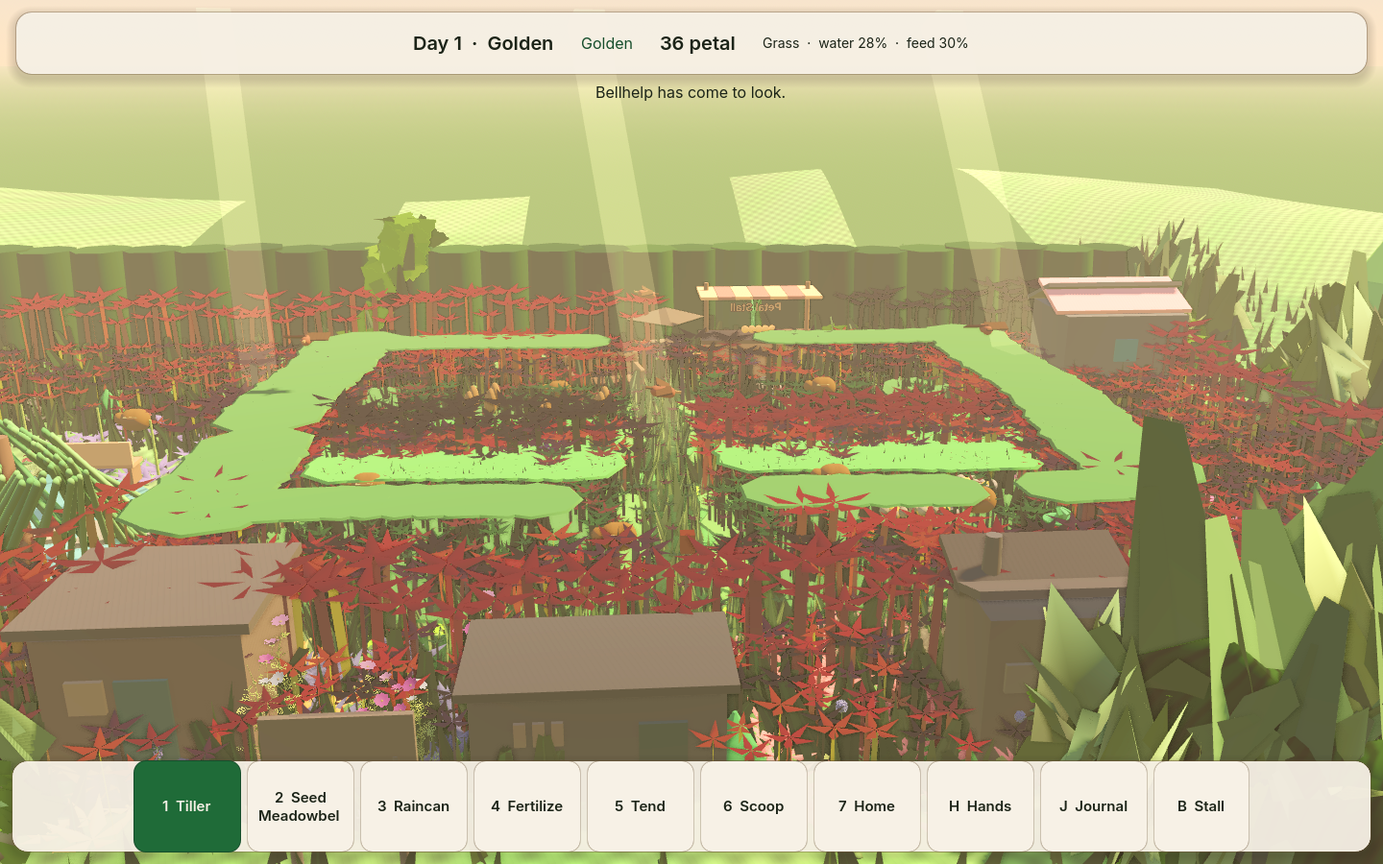
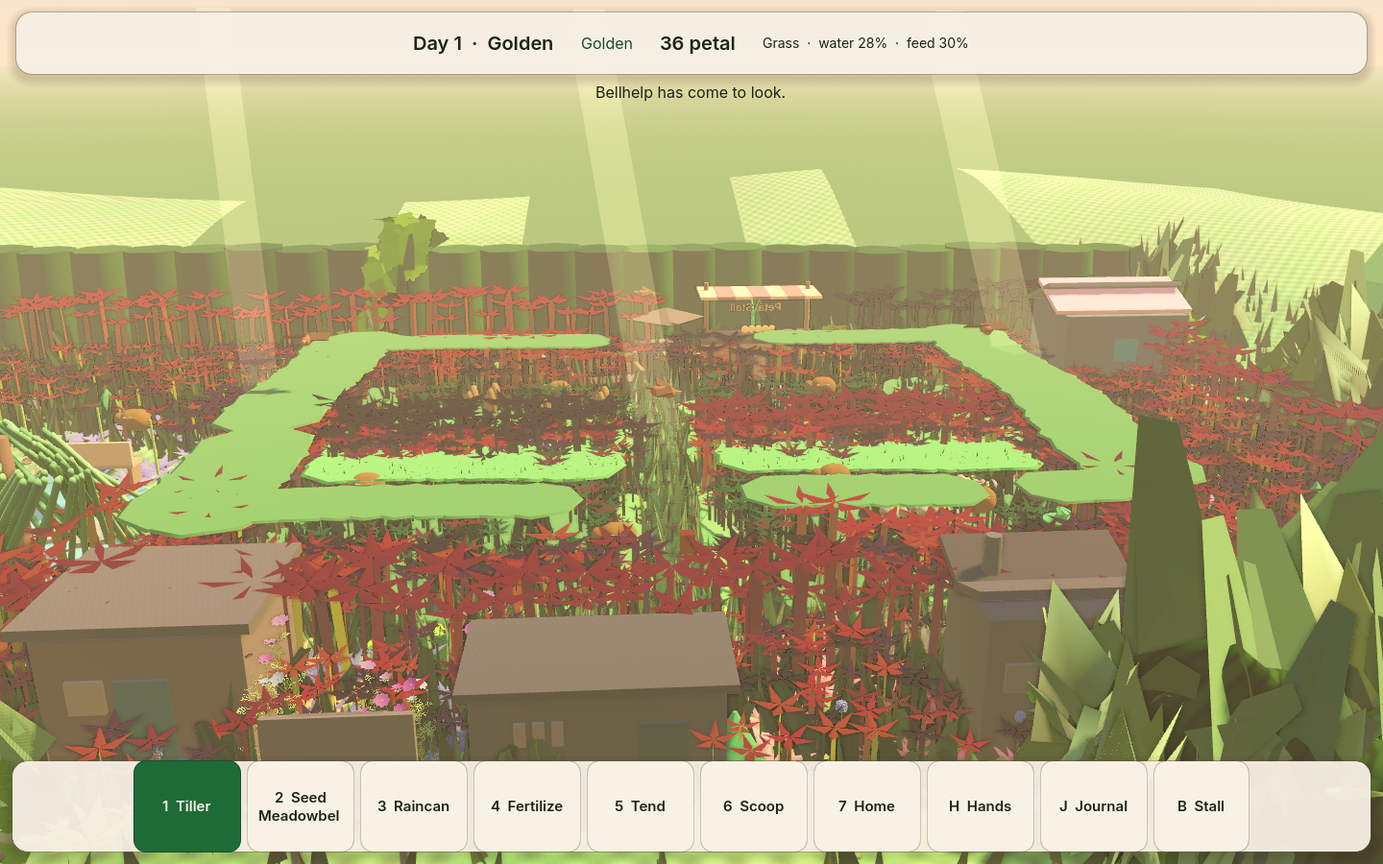
The eight leaves under each crop become short blades.
Hailo did not vote (health 200, POST returned 502 twice). The bramble fruit stays.

diff --git a/docs/VISUAL_GAP.md b/docs/VISUAL_GAP.md
@@ -2,7 +2,7 @@
 
 Compared on 2026-09-23. The scene `tools/run.sh` launches is Hedge Hollow. Shots: `docs/screenshots/wave1_overview.png`, `wave1_jelly.png`, `wave1_lumen.png`. Targets: `docs/reference/petalwild_target_garden_01.png` and `petalwild_target_garden_02.png`.
 
-The north backdrop trees are shorter than the hedge. Crest leaf cards are 0.4 of their old size, and the far wall keeps one 2.5 m tuft in four. A row of dark shrubs stands just behind that wall. The east end is taller so its lip meets the hedge line. Light-green pixels in the upper opening band (screen y 265–320, x 40–1400) fell from 53% to 24%, and in the lower band (y 290–360, x 80–1200) from 36% to 13%. On the east lip (y 252–272, x 40–300) mean luminance fell from 200 to 162. The hill (y 200–245) did not change. The stall still sits in front of the middle of the wall. The bright blue band in that opening was the awning cloth, not a hole in the hedge. That stripe is darker now and reads about (171, 171, 173). A sky-blue detector on the overview (blue above 200, ahead of red by 20 and of green by 10) is 0. The shrub row behind the wall was lifting to pale green under the sun. The same light-green check (green ahead of red by 15 and of blue by 20, green above 140) now covers 1.2% of the upper band, down from 3.5% on the previous shot. The crest leaf cards and the far trees were the pale pixels in the side openings. The upper hill (screen y 200–230) stayed at about (213, 224, 148). The ground sky below the horizon is green, so a hole in the hill reads as olive rather than pale sky. Bellhelp’s close-up shows five pointed lobes, five gap tips past them, a wide short rank inside that ring, a darker band, and a wider flared whorl. The dark throat stays. The wide skirt of spheres is gone. The bench and planter use a dark multiply on the prop texture, and bright plant-atlas texels are capped. The three lantern glasses are amber instead of pure white. The pink disk by the south-west rail, the untilled grass-plot tops, the meadowbell petals, the mauve bed, the resident hands, the light flagstones, the path dirt, and the loose stones are darkened so they stay under the sun. Eight bees drift over the beds. Four birds cross the garden by day and perch at dusk and in the rain. A planted meadowbell is three bells on a leaf pad, and every crop sits in a ring of eight leaves. Pure white on this overview is 0. On the previous shot the upper-band light-green check was 1.17% and the hill mean was (212.9, 224.4, 147.6). The hedge tea house stands in the lower left of the home shot. On that shot the same check was 1.30% (969 pixels) and the hill mean was (212.0, 223.6, 146.4). The research hut stands in the lower middle of that shot, where the check was 1.17% (874 pixels) and the hill mean was (212.0, 223.6, 146.4). The media foundry stands in the lower middle of that shot, where the check was 1.15% (862 pixels) and the hill mean was (212.0, 223.6, 146.4). The town hall board now stands in the south gate. On the town-hall shot the check was 1.29% (968 pixels) and the hill mean was (212.0, 223.6, 146.4). On the six-bloom shot the check was 1.54% (1155 pixels) and the hill mean was (212.0, 223.7, 146.5). Empty untilled beds now carry nine dark leaf discs and eight short flowers, and a tilled or planted bed clears them. On the leaf-cover shot the check was 1.60% (1197 pixels) and the hill mean was (212.1, 223.8, 146.5). Neighboring empty cells now share an overlapping dark lid, so the brown seam inside a plot closes. On the joined-lid shot the check was 1.61% (1208 pixels) and the hill mean was (212.1, 223.8, 146.5). A planted cell now keeps that dark lid, so the crop sits in the meadow instead of an inset square. On the planted-lid shot the check was 1.54% (1149 pixels) and the hill mean was (212.1, 223.7, 146.5). The north and south plots now meet across the lawn, and the north-south path stays open. On the bridge shot the check was 1.57% (1176 pixels) and the hill mean was (212.2, 223.8, 146.6). Flowers now sit on both lips of the north-south path, and the path center stays open. On the path-lip shot the check was 1.61% (1204 pixels) and the hill mean was (212.1, 223.8, 146.5). Flowers now spill past the outer edges of the four beds, and the path-center pixels are unchanged. On the bed-edge shot the check was 1.45% (1083 pixels) and the hill mean was (212.2, 223.9, 146.6). The north-south track is narrower, its shoulders are meadow, and the center stays stone. On the narrow-track shot the check was 1.46% (1091 pixels) and the hill mean was (212.2, 223.9, 146.6). The south and north tracks are narrower too, with flowers on their lips. On the track-lip shot the check was 1.45% (1083 pixels) and the hill mean was (212.2, 223.9, 146.6). The wooden frames and the inner hedge around the four beds are gone. The parish hedge stays. On the open-bed shot the check was 1.26% (940 pixels) and the hill mean was (212.0, 223.6, 146.4). On the stepping-stone shot the check was 1.52% (1136 pixels) and the hill mean was (212.0, 223.7, 146.5). On the smaller-stone shot the check was 1.16% (870 pixels) and the hill mean was (212.0, 223.6, 146.4). On the open-stone shot the check was 1.28% (955 pixels) and the hill mean was (212.2, 223.9, 146.6). On the flower-track shot the check was 1.53% (1148 pixels) and the hill mean was (212.2, 223.9, 146.6). On the track-grass shot the check was 1.21% (903 pixels) and the hill mean was (212.0, 223.6, 146.4). On the worn-walk shot the ledger wrote 1.56% (1166 pixels) and the hill mean (212.1, 223.7, 146.5). The same light-green check on that file is 3.72% (2780 of 74800). Empty meadow cells carry a fuller clump: larger leaves, larger blooms, and four more flowers in the gaps. Tilling one empty cell clears twenty-one instances. On that shot the check was 3.70% (2766 of 74800) and the hill mean was (212.1, 223.7, 146.5). A planted cell now keeps eight flowers on its rim, and the stem stays clear. Opening that cell into meadow adds the other thirteen. The worn centers stay open. On that shot the check was 3.55% (2657 of 74800) and the hill mean was (212.0, 223.7, 146.4). On that shot the check was 3.80% (2841 of 74800) and the hill mean was (212.1, 223.7, 146.5). On that shot the check was 3.82% (2855 of 74800) and the hill mean was (212.1, 223.8, 146.5). The north apron above the beds carries a tighter bloom grid. The worn walks, the stall spur, the rooms, and the pond stay open. On that shot the check was 3.80% (2844). Against the file before it the band gained 82 pixels and lost 93. The hill mean was (212.1, 223.8, 146.5). 6.62% of the pixels below the horizon changed, and 0.49% above y 320. The apron band (screen y 350–400) changed 17%. The bridge strips between the north and south beds carry a tighter bloom grid. The worn center between them stays open. On that shot the check was 3.78% (2831). Against the file before it the band gained 41 pixels and lost 54. The hill mean was (212.2, 223.8, 146.6). 4.59% of the pixels below the horizon changed, and 0.27% above y 320. The bridge band (screen y 486–525, x 343–1037) changed 6%. The lawn just inside the west hedge now carries a tighter bloom grid. The hedge wall stays. On this shot the check is 3.81% (2849). Against that file the band gained 66 pixels and lost 48. The hill mean is (212.1, 223.8, 146.5). 4.73% of the pixels below the horizon changed, and 0.32% above y 320. The west band (screen y 450–700, x 1260–1440) changed 9%, and rose pixels there went from 2147 to 2749. After dusk the three path lanterns brighten, and they glow while the mist is up. On the night shot the pond lamp moved from (199, 157, 108) to (254, 197, 114). The afternoon shot stays as it is. The north apron continues east of the beds. The worn walks stay open. On this shot the check is 3.75% (2802 of 74800). Against that file the band gained 163 pixels and lost 210. The hill mean is (212.2, 223.9, 146.6). 28.18% of the pixels below the horizon changed, and 1.78% above y 320. The east apron band (screen y 370–450, x 40–560) changed 43.6%, and rose pixels there went from 27759 to 28986. The south lawn in front of the rooms carries a tighter bloom grid. The worn walks and the south hedge stay open. On this shot the check is 3.65% (2733 of 74800). Against that file the band gained 165 pixels and lost 234. The hill mean is (212.2, 223.9, 146.6). 29.84% of the pixels below the horizon changed, and 1.77% above y 320. The south band (screen y 740–860, x 100–900) changed 21.6%, and rose pixels there went from 8225 to 11752. Pure white is 0. The sky-blue detector is 0. The stall lamp brightens while the stall is open and dims after it shuts. The afternoon home shot stays as it is. On the stall close-up the frame mean moved from (135.4, 118.1, 81.9) to (144.7, 121.5, 86.0). After dusk the tea house window, the hut window, and the shed's south pane glow. On the night shot those panes read (254, 196, 111), (251, 190, 104), and (245, 201, 143). By day the tea and hut windows stay dark. The shed's south pane is in the afternoon shot. The stall awning warms while the stall is open and cools after it shuts. On the afternoon shot a stripe moved from (163, 163, 159) to (254, 193, 154) at screen (819, 306). The night shot stays as it is. On this shot the check is 3.77% (2823 of 74800). Against that file the band gained and lost within the sway of the hedge. The hill mean is (212.2, 223.8, 146.6). Pure white is 0. The sky-blue detector is 0. One bed-flower rank was tan and read as soil. It is coral now. A petal at screen (926, 678) moved from (104, 115, 72) to (232, 138, 111). The night shot stays. On this shot the check is 3.74% (2796 of 74800). The hill mean is (212.2, 223.9, 146.6). Pure white is 0. The sky-blue detector is 0. The eight bees are large enough to read over the beds. A flower under one moved from (255, 219, 194) to (139, 110, 67) at screen (1020, 531). The night shot shows that bee. On this shot the check is 3.75% (2807 of 74800). The hill mean is (212.2, 223.9, 146.6). Pure white is 0. The sky-blue detector is 0. Empty-cell flowers and the planted rims sit off the cell rows. A nudge that would land on a worn walk stays put. A bloom left screen (635, 508), from (255, 201, 172) to (121, 119, 81), and that color landed at (599, 513). The night shot shows that move, from (224, 152, 145) to (104, 130, 105) at the old point. The south bed band mean change was 44.5 against 4.5 on the south lawn. On this shot the check is 3.73% (2793 of 74800). The hill mean is (212.2, 223.9, 146.6). Pure white is 0. The sky-blue detector is 0. The bridge blooms leave their grid. Columns clump, and a gap opens between them. A point at screen (888, 468) moved from (119, 117, 81) to (255, 145, 147). The night shot shows that bloom, from (100, 119, 108) to (175, 106, 122). On this shot the check is 3.57% (2670 of 74800). The hill mean is (212.2, 223.9, 146.6). Pure white is 0. The sky-blue detector is 0. A third ring of blooms sits past the bed corners. A point at screen (1249, 600) moved from (81, 85, 49) to (187, 214, 116). The night shot stays. On this shot the check is 3.72% (2785 of 74800). The hill mean is (212.2, 223.9, 146.6). Pure white is 0. The sky-blue detector is 0. The outer sides of the four beds wave in and out. A point at screen (1018, 491) moved from (130, 106, 73) to (255, 229, 204). The night shot shows that bloom, from (104, 90, 83) to (232, 164, 162). A flower left screen (1051, 490), from (254, 168, 189) to (134, 136, 87), and at night from (164, 122, 151) to (113, 133, 113). The inner sides that face the path wave into the beds. A bloom arrived at screen (786, 545), from (76, 93, 48) to (255, 242, 216), and at night from (51, 64, 59) to (255, 171, 162). Another arrived at (632, 531), from (80, 93, 51) to (255, 238, 213), and at night from (56, 69, 63) to (247, 164, 158). A flower left the straight lip at (738, 519), from (255, 240, 214) to (85, 103, 56), and at night from (244, 164, 159) to (61, 76, 71). The worn center stays open. The bridge strips lose their straight plank edges. A bloom arrived at screen (863, 471), from (187, 117, 99) to (255, 236, 211), and at night from (176, 119, 119) to (242, 163, 161). A point at (821, 480) left its yellow, from (216, 210, 96) to (199, 136, 135), and at night from (214, 211, 116) to (125, 111, 119). The worn center stays open. The lids inside the beds leave their rows. A bloom arrived at screen (1005, 521), from (142, 112, 72) to (254, 165, 189), and at night from (128, 114, 98) to (163, 119, 148). A flower left screen (413, 546), from (187, 154, 175) to (118, 140, 79), and at night from (103, 100, 131) to (84, 102, 95). The worn walks stay open. The furrows inside the beds are meadow. A bloom at screen (1043, 533) moved from (250, 161, 183) to (206, 248, 129), and at night from (203, 113, 119) to (127, 182, 119). Another at (802, 549) moved from (247, 154, 178) to (200, 244, 123), and at night from (180, 118, 149) to (136, 189, 116). The worn walks stay open. On this shot the check is 3.57% (2673 of 74800). The previous file is 2785. The mask at x 1240–1400 is 2234 of 2673. The hill mean is (212.2, 223.9, 146.6). Pure white is 0. The sky-blue detector is 0. On this shot the check is 3.70% (2768 of 74800). The previous file is 2673. The mask at x 1240–1400 is 2312 of 2768. The hill mean is (212.2, 223.9, 146.6). Pure white is 0. The sky-blue detector is 0. On this shot the check is 3.60% (2692 of 74800). The previous file is 2768. The mask at x 1240–1400 is 2249 of 2692. The hill mean is (212.2, 223.9, 146.6). Pure white is 0. The sky-blue detector is 0. On this shot the check is 3.72% (2784 of 74800). The previous file is 2692. The mask at x 1240–1400 is 2318 of 2784. The hill mean is (212.2, 223.9, 146.6). Pure white is 0. The sky-blue detector is 0. On this shot the check is 3.54% (2647 of 74800). The previous file is 2784. The mask at x 1240–1400 is 2266 of 2647. The hill mean is (212.2, 223.9, 146.6). Pure white is 0. The sky-blue detector is 0. The four beds share one meadow outline across the seam. A bloom at screen (445, 473) moved from (253, 154, 128) to (182, 241, 127), and at night from (182, 112, 111) to (107, 165, 115). Another at (812, 482) moved from (229, 132, 108) to (184, 244, 130), and at night from (169, 102, 100) to (108, 166, 117). The worn walks stay open. On this shot the check is 3.47% (2593 of 74800). The previous file is 2647. The mask at x 1240–1400 is 2292 of 2593. The hill mean is (212.2, 223.9, 146.6). Pure white is 0. The sky-blue detector is 0. The dark frames around the beds are meadow. A lid at screen (489, 614) moved from (99, 96, 63) to (152, 194, 101), and at night from (75, 92, 79) to (87, 123, 94). Another at (778, 603) moved from (111, 115, 70) to (199, 240, 125), and at night from (99, 123, 84) to (125, 174, 111). The worn walks stay open. On this shot the check is 3.24% (2424 of 74800). The previous file is 2593. The mask at x 1240–1400 is 2271 of 2424. The hill mean is (212.2, 223.9, 146.6). Pure white is 0. The sky-blue detector is 0. The tan corners of the beds are meadow. A corner at screen (1121, 634) moved from (111, 102, 90) to (161, 179, 107), and at night from (81, 85, 87) to (114, 144, 101). Another at (947, 400) moved from (106, 101, 64) to (182, 216, 124), and at night from (85, 95, 79) to (117, 152, 124). The worn walks stay open. On this shot the check is 3.25% (2433 of 74800). The previous file is 2424. The mask at x 1240–1400 is 2267 of 2433. The hill mean is (212.2, 223.9, 146.6). Pure white is 0. The sky-blue detector is 0. The four beds share one meadow hull on the east and west. A lip at screen (225, 499) moved from (255, 146, 162) to (171, 213, 116), and at night from (185, 101, 123) to (100, 137, 110). Another at (1104, 420) moved from (255, 164, 151) to (175, 213, 120), and at night from (193, 116, 126) to (106, 143, 117). The worn walks stay open. On this shot the check is 3.26% (2440 of 74800). The previous file is 2433. The mask at x 1240–1400 is 2284 of 2440. The hill mean is (212.2, 223.9, 146.6). Pure white is 0. The sky-blue detector is 0. The north and south lips join that hull. A lip at screen (920, 349) moved from (120, 116, 75) to (182, 216, 126), and at night from (100, 116, 102) to (115, 147, 125). Another at (1081, 506) moved from (142, 145, 91) to (167, 210, 115), and at night from (141, 121, 112) to (97, 138, 108). The worn walks stay open. On this shot the check is 3.26% (2439 of 74800). The previous file is 2440. The mask at x 1240–1400 is 2277 of 2439. The hill mean is (212.2, 223.9, 146.6). Pure white is 0. The sky-blue detector is 0. On this shot the check is 3.26% (2442 of 74800). The previous file is 2439. The mask at x 1240–1400 is 2285 of 2442. The hill mean is (212.2, 223.9, 146.6). Pure white is 0. The sky-blue detector is 0. The clipped blooms over the beds come down under 250. A bloom at screen (953, 426) moved from (255, 145, 146) to (169, 96, 80), and at night from (178, 104, 120) to (119, 101, 108). Another at (595, 584) moved from (255, 127, 136) to (156, 78, 68), and at night from (167, 88, 108) to (106, 84, 90). The worn walks stay open. On this shot the check is 3.31% (2475 of 74800). The previous file is 2442. The mask at x 1240–1400 is 2272 of 2475. The hill mean is (212.2, 223.9, 146.6). Pure white is 0. The sky-blue detector is 0. The lawn tufts that still clipped to 255 come down under 250. A tuft at screen (55, 450) moved from (226, 255, 167) to (133, 122, 85), and at night from (126, 148, 120) to (114, 128, 119). Another at (1353, 515) moved from (255, 255, 180) to (117, 98, 78), and at night from (98, 128, 93) to (90, 112, 85). The worn walks stay open. On this shot the check is 3.26% (2441 of 74800). The previous file is 2475. The mask at x 1240–1400 is 2277 of 2441. The hill mean is (212.2, 223.9, 146.6). Pure white is 0. The sky-blue detector is 0. Empty bed cells grow blades over the flat discs. A blade at screen (900, 415) moved from (177, 196, 114) to (133, 108, 80), and at night from (121, 146, 121) to (104, 111, 109). Another at (972, 399) moved from (150, 151, 92) to (125, 111, 81), and at night from (117, 132, 116) to (108, 122, 106). The worn walks stay open. The pond surface bowls down in the middle and meets the bank. On the night pond shot a point at screen (360, 520) moved from (150, 204, 155) to (79, 122, 110). Another at (520, 440) moved from (152, 204, 157) to (103, 152, 115). On this shot the check is 3.24% (2427 of 74800). The previous file is 2441. The mask at x 1240–1400 is 2261 of 2427. The hill mean is (212.2, 223.9, 146.6). Pure white is 0. The sky-blue detector is 0. The openings in the worn walks grow a flower clump. A clump at screen (975, 451) moved from (125, 117, 77) to (165, 189, 105), and at night from (117, 138, 114) to (117, 115, 107). Another at (717, 472) moved from (183, 240, 127) to (139, 156, 89), and at night from (97, 111, 103) to (66, 93, 71). The worn walks stay open. On this shot the check is 3.29% (2459 of 74800). The previous file is 2427. The mask at x 1240–1400 is 2275 of 2459. The hill mean is (212.2, 223.9, 146.6). Pure white is 0. The sky-blue detector is 0. Meadow grows on the outer half of the stall spur and the pond path. A bloom at screen (778, 382) moved from (187, 151, 106) to (109, 96, 69), and at night from (178, 153, 131) to (90, 100, 99). Another at (788, 378) moved from (188, 152, 106) to (126, 91, 70), and at night from (181, 154, 133) to (102, 95, 94). The worn center at screen (796, 404) stayed (124, 110, 79). The south path lantern glass at screen (722, 552) came down from (255, 232, 131) to (183, 97, 65) by day, and from (255, 199, 119) to (208, 128, 91) at night. Both stay under 250. The room windows stay as they are. A planted reed grows a seed head on each stem. A head at screen (405, 512) moved from (80, 71, 48) to (224, 176, 110) by day, and from (88, 99, 95) to (152, 134, 119) at night. The peach hangs as one warm fruit on a short stem. A point at screen (552, 909) moved from (160, 132, 78) to (239, 147, 89) by day, and from (117, 134, 102) to (152, 111, 103) at night. Both stay under 250. The bramble stays a ball.
+The north backdrop trees are shorter than the hedge. Crest leaf cards are 0.4 of their old size, and the far wall keeps one 2.5 m tuft in four. A row of dark shrubs stands just behind that wall. The east end is taller so its lip meets the hedge line. Light-green pixels in the upper opening band (screen y 265–320, x 40–1400) fell from 53% to 24%, and in the lower band (y 290–360, x 80–1200) from 36% to 13%. On the east lip (y 252–272, x 40–300) mean luminance fell from 200 to 162. The hill (y 200–245) did not change. The stall still sits in front of the middle of the wall. The bright blue band in that opening was the awning cloth, not a hole in the hedge. That stripe is darker now and reads about (171, 171, 173). A sky-blue detector on the overview (blue above 200, ahead of red by 20 and of green by 10) is 0. The shrub row behind the wall was lifting to pale green under the sun. The same light-green check (green ahead of red by 15 and of blue by 20, green above 140) now covers 1.2% of the upper band, down from 3.5% on the previous shot. The crest leaf cards and the far trees were the pale pixels in the side openings. The upper hill (screen y 200–230) stayed at about (213, 224, 148). The ground sky below the horizon is green, so a hole in the hill reads as olive rather than pale sky. Bellhelp’s close-up shows five pointed lobes, five gap tips past them, a wide short rank inside that ring, a darker band, and a wider flared whorl. The dark throat stays. The wide skirt of spheres is gone. The bench and planter use a dark multiply on the prop texture, and bright plant-atlas texels are capped. The three lantern glasses are amber instead of pure white. The pink disk by the south-west rail, the untilled grass-plot tops, the meadowbell petals, the mauve bed, the resident hands, the light flagstones, the path dirt, and the loose stones are darkened so they stay under the sun. Eight bees drift over the beds. Four birds cross the garden by day and perch at dusk and in the rain. A planted meadowbell is three bells on a leaf pad, and every crop sits in a ring of eight leaves. Pure white on this overview is 0. On the previous shot the upper-band light-green check was 1.17% and the hill mean was (212.9, 224.4, 147.6). The hedge tea house stands in the lower left of the home shot. On that shot the same check was 1.30% (969 pixels) and the hill mean was (212.0, 223.6, 146.4). The research hut stands in the lower middle of that shot, where the check was 1.17% (874 pixels) and the hill mean was (212.0, 223.6, 146.4). The media foundry stands in the lower middle of that shot, where the check was 1.15% (862 pixels) and the hill mean was (212.0, 223.6, 146.4). The town hall board now stands in the south gate. On the town-hall shot the check was 1.29% (968 pixels) and the hill mean was (212.0, 223.6, 146.4). On the six-bloom shot the check was 1.54% (1155 pixels) and the hill mean was (212.0, 223.7, 146.5). Empty untilled beds now carry nine dark leaf discs and eight short flowers, and a tilled or planted bed clears them. On the leaf-cover shot the check was 1.60% (1197 pixels) and the hill mean was (212.1, 223.8, 146.5). Neighboring empty cells now share an overlapping dark lid, so the brown seam inside a plot closes. On the joined-lid shot the check was 1.61% (1208 pixels) and the hill mean was (212.1, 223.8, 146.5). A planted cell now keeps that dark lid, so the crop sits in the meadow instead of an inset square. On the planted-lid shot the check was 1.54% (1149 pixels) and the hill mean was (212.1, 223.7, 146.5). The north and south plots now meet across the lawn, and the north-south path stays open. On the bridge shot the check was 1.57% (1176 pixels) and the hill mean was (212.2, 223.8, 146.6). Flowers now sit on both lips of the north-south path, and the path center stays open. On the path-lip shot the check was 1.61% (1204 pixels) and the hill mean was (212.1, 223.8, 146.5). Flowers now spill past the outer edges of the four beds, and the path-center pixels are unchanged. On the bed-edge shot the check was 1.45% (1083 pixels) and the hill mean was (212.2, 223.9, 146.6). The north-south track is narrower, its shoulders are meadow, and the center stays stone. On the narrow-track shot the check was 1.46% (1091 pixels) and the hill mean was (212.2, 223.9, 146.6). The south and north tracks are narrower too, with flowers on their lips. On the track-lip shot the check was 1.45% (1083 pixels) and the hill mean was (212.2, 223.9, 146.6). The wooden frames and the inner hedge around the four beds are gone. The parish hedge stays. On the open-bed shot the check was 1.26% (940 pixels) and the hill mean was (212.0, 223.6, 146.4). On the stepping-stone shot the check was 1.52% (1136 pixels) and the hill mean was (212.0, 223.7, 146.5). On the smaller-stone shot the check was 1.16% (870 pixels) and the hill mean was (212.0, 223.6, 146.4). On the open-stone shot the check was 1.28% (955 pixels) and the hill mean was (212.2, 223.9, 146.6). On the flower-track shot the check was 1.53% (1148 pixels) and the hill mean was (212.2, 223.9, 146.6). On the track-grass shot the check was 1.21% (903 pixels) and the hill mean was (212.0, 223.6, 146.4). On the worn-walk shot the ledger wrote 1.56% (1166 pixels) and the hill mean (212.1, 223.7, 146.5). The same light-green check on that file is 3.72% (2780 of 74800). Empty meadow cells carry a fuller clump: larger leaves, larger blooms, and four more flowers in the gaps. Tilling one empty cell clears twenty-one instances. On that shot the check was 3.70% (2766 of 74800) and the hill mean was (212.1, 223.7, 146.5). A planted cell now keeps eight flowers on its rim, and the stem stays clear. Opening that cell into meadow adds the other thirteen. The worn centers stay open. On that shot the check was 3.55% (2657 of 74800) and the hill mean was (212.0, 223.7, 146.4). On that shot the check was 3.80% (2841 of 74800) and the hill mean was (212.1, 223.7, 146.5). On that shot the check was 3.82% (2855 of 74800) and the hill mean was (212.1, 223.8, 146.5). The north apron above the beds carries a tighter bloom grid. The worn walks, the stall spur, the rooms, and the pond stay open. On that shot the check was 3.80% (2844). Against the file before it the band gained 82 pixels and lost 93. The hill mean was (212.1, 223.8, 146.5). 6.62% of the pixels below the horizon changed, and 0.49% above y 320. The apron band (screen y 350–400) changed 17%. The bridge strips between the north and south beds carry a tighter bloom grid. The worn center between them stays open. On that shot the check was 3.78% (2831). Against the file before it the band gained 41 pixels and lost 54. The hill mean was (212.2, 223.8, 146.6). 4.59% of the pixels below the horizon changed, and 0.27% above y 320. The bridge band (screen y 486–525, x 343–1037) changed 6%. The lawn just inside the west hedge now carries a tighter bloom grid. The hedge wall stays. On this shot the check is 3.81% (2849). Against that file the band gained 66 pixels and lost 48. The hill mean is (212.1, 223.8, 146.5). 4.73% of the pixels below the horizon changed, and 0.32% above y 320. The west band (screen y 450–700, x 1260–1440) changed 9%, and rose pixels there went from 2147 to 2749. After dusk the three path lanterns brighten, and they glow while the mist is up. On the night shot the pond lamp moved from (199, 157, 108) to (254, 197, 114). The afternoon shot stays as it is. The north apron continues east of the beds. The worn walks stay open. On this shot the check is 3.75% (2802 of 74800). Against that file the band gained 163 pixels and lost 210. The hill mean is (212.2, 223.9, 146.6). 28.18% of the pixels below the horizon changed, and 1.78% above y 320. The east apron band (screen y 370–450, x 40–560) changed 43.6%, and rose pixels there went from 27759 to 28986. The south lawn in front of the rooms carries a tighter bloom grid. The worn walks and the south hedge stay open. On this shot the check is 3.65% (2733 of 74800). Against that file the band gained 165 pixels and lost 234. The hill mean is (212.2, 223.9, 146.6). 29.84% of the pixels below the horizon changed, and 1.77% above y 320. The south band (screen y 740–860, x 100–900) changed 21.6%, and rose pixels there went from 8225 to 11752. Pure white is 0. The sky-blue detector is 0. The stall lamp brightens while the stall is open and dims after it shuts. The afternoon home shot stays as it is. On the stall close-up the frame mean moved from (135.4, 118.1, 81.9) to (144.7, 121.5, 86.0). After dusk the tea house window, the hut window, and the shed's south pane glow. On the night shot those panes read (254, 196, 111), (251, 190, 104), and (245, 201, 143). By day the tea and hut windows stay dark. The shed's south pane is in the afternoon shot. The stall awning warms while the stall is open and cools after it shuts. On the afternoon shot a stripe moved from (163, 163, 159) to (254, 193, 154) at screen (819, 306). The night shot stays as it is. On this shot the check is 3.77% (2823 of 74800). Against that file the band gained and lost within the sway of the hedge. The hill mean is (212.2, 223.8, 146.6). Pure white is 0. The sky-blue detector is 0. One bed-flower rank was tan and read as soil. It is coral now. A petal at screen (926, 678) moved from (104, 115, 72) to (232, 138, 111). The night shot stays. On this shot the check is 3.74% (2796 of 74800). The hill mean is (212.2, 223.9, 146.6). Pure white is 0. The sky-blue detector is 0. The eight bees are large enough to read over the beds. A flower under one moved from (255, 219, 194) to (139, 110, 67) at screen (1020, 531). The night shot shows that bee. On this shot the check is 3.75% (2807 of 74800). The hill mean is (212.2, 223.9, 146.6). Pure white is 0. The sky-blue detector is 0. Empty-cell flowers and the planted rims sit off the cell rows. A nudge that would land on a worn walk stays put. A bloom left screen (635, 508), from (255, 201, 172) to (121, 119, 81), and that color landed at (599, 513). The night shot shows that move, from (224, 152, 145) to (104, 130, 105) at the old point. The south bed band mean change was 44.5 against 4.5 on the south lawn. On this shot the check is 3.73% (2793 of 74800). The hill mean is (212.2, 223.9, 146.6). Pure white is 0. The sky-blue detector is 0. The bridge blooms leave their grid. Columns clump, and a gap opens between them. A point at screen (888, 468) moved from (119, 117, 81) to (255, 145, 147). The night shot shows that bloom, from (100, 119, 108) to (175, 106, 122). On this shot the check is 3.57% (2670 of 74800). The hill mean is (212.2, 223.9, 146.6). Pure white is 0. The sky-blue detector is 0. A third ring of blooms sits past the bed corners. A point at screen (1249, 600) moved from (81, 85, 49) to (187, 214, 116). The night shot stays. On this shot the check is 3.72% (2785 of 74800). The hill mean is (212.2, 223.9, 146.6). Pure white is 0. The sky-blue detector is 0. The outer sides of the four beds wave in and out. A point at screen (1018, 491) moved from (130, 106, 73) to (255, 229, 204). The night shot shows that bloom, from (104, 90, 83) to (232, 164, 162). A flower left screen (1051, 490), from (254, 168, 189) to (134, 136, 87), and at night from (164, 122, 151) to (113, 133, 113). The inner sides that face the path wave into the beds. A bloom arrived at screen (786, 545), from (76, 93, 48) to (255, 242, 216), and at night from (51, 64, 59) to (255, 171, 162). Another arrived at (632, 531), from (80, 93, 51) to (255, 238, 213), and at night from (56, 69, 63) to (247, 164, 158). A flower left the straight lip at (738, 519), from (255, 240, 214) to (85, 103, 56), and at night from (244, 164, 159) to (61, 76, 71). The worn center stays open. The bridge strips lose their straight plank edges. A bloom arrived at screen (863, 471), from (187, 117, 99) to (255, 236, 211), and at night from (176, 119, 119) to (242, 163, 161). A point at (821, 480) left its yellow, from (216, 210, 96) to (199, 136, 135), and at night from (214, 211, 116) to (125, 111, 119). The worn center stays open. The lids inside the beds leave their rows. A bloom arrived at screen (1005, 521), from (142, 112, 72) to (254, 165, 189), and at night from (128, 114, 98) to (163, 119, 148). A flower left screen (413, 546), from (187, 154, 175) to (118, 140, 79), and at night from (103, 100, 131) to (84, 102, 95). The worn walks stay open. The furrows inside the beds are meadow. A bloom at screen (1043, 533) moved from (250, 161, 183) to (206, 248, 129), and at night from (203, 113, 119) to (127, 182, 119). Another at (802, 549) moved from (247, 154, 178) to (200, 244, 123), and at night from (180, 118, 149) to (136, 189, 116). The worn walks stay open. On this shot the check is 3.57% (2673 of 74800). The previous file is 2785. The mask at x 1240–1400 is 2234 of 2673. The hill mean is (212.2, 223.9, 146.6). Pure white is 0. The sky-blue detector is 0. On this shot the check is 3.70% (2768 of 74800). The previous file is 2673. The mask at x 1240–1400 is 2312 of 2768. The hill mean is (212.2, 223.9, 146.6). Pure white is 0. The sky-blue detector is 0. On this shot the check is 3.60% (2692 of 74800). The previous file is 2768. The mask at x 1240–1400 is 2249 of 2692. The hill mean is (212.2, 223.9, 146.6). Pure white is 0. The sky-blue detector is 0. On this shot the check is 3.72% (2784 of 74800). The previous file is 2692. The mask at x 1240–1400 is 2318 of 2784. The hill mean is (212.2, 223.9, 146.6). Pure white is 0. The sky-blue detector is 0. On this shot the check is 3.54% (2647 of 74800). The previous file is 2784. The mask at x 1240–1400 is 2266 of 2647. The hill mean is (212.2, 223.9, 146.6). Pure white is 0. The sky-blue detector is 0. The four beds share one meadow outline across the seam. A bloom at screen (445, 473) moved from (253, 154, 128) to (182, 241, 127), and at night from (182, 112, 111) to (107, 165, 115). Another at (812, 482) moved from (229, 132, 108) to (184, 244, 130), and at night from (169, 102, 100) to (108, 166, 117). The worn walks stay open. On this shot the check is 3.47% (2593 of 74800). The previous file is 2647. The mask at x 1240–1400 is 2292 of 2593. The hill mean is (212.2, 223.9, 146.6). Pure white is 0. The sky-blue detector is 0. The dark frames around the beds are meadow. A lid at screen (489, 614) moved from (99, 96, 63) to (152, 194, 101), and at night from (75, 92, 79) to (87, 123, 94). Another at (778, 603) moved from (111, 115, 70) to (199, 240, 125), and at night from (99, 123, 84) to (125, 174, 111). The worn walks stay open. On this shot the check is 3.24% (2424 of 74800). The previous file is 2593. The mask at x 1240–1400 is 2271 of 2424. The hill mean is (212.2, 223.9, 146.6). Pure white is 0. The sky-blue detector is 0. The tan corners of the beds are meadow. A corner at screen (1121, 634) moved from (111, 102, 90) to (161, 179, 107), and at night from (81, 85, 87) to (114, 144, 101). Another at (947, 400) moved from (106, 101, 64) to (182, 216, 124), and at night from (85, 95, 79) to (117, 152, 124). The worn walks stay open. On this shot the check is 3.25% (2433 of 74800). The previous file is 2424. The mask at x 1240–1400 is 2267 of 2433. The hill mean is (212.2, 223.9, 146.6). Pure white is 0. The sky-blue detector is 0. The four beds share one meadow hull on the east and west. A lip at screen (225, 499) moved from (255, 146, 162) to (171, 213, 116), and at night from (185, 101, 123) to (100, 137, 110). Another at (1104, 420) moved from (255, 164, 151) to (175, 213, 120), and at night from (193, 116, 126) to (106, 143, 117). The worn walks stay open. On this shot the check is 3.26% (2440 of 74800). The previous file is 2433. The mask at x 1240–1400 is 2284 of 2440. The hill mean is (212.2, 223.9, 146.6). Pure white is 0. The sky-blue detector is 0. The north and south lips join that hull. A lip at screen (920, 349) moved from (120, 116, 75) to (182, 216, 126), and at night from (100, 116, 102) to (115, 147, 125). Another at (1081, 506) moved from (142, 145, 91) to (167, 210, 115), and at night from (141, 121, 112) to (97, 138, 108). The worn walks stay open. On this shot the check is 3.26% (2439 of 74800). The previous file is 2440. The mask at x 1240–1400 is 2277 of 2439. The hill mean is (212.2, 223.9, 146.6). Pure white is 0. The sky-blue detector is 0. On this shot the check is 3.26% (2442 of 74800). The previous file is 2439. The mask at x 1240–1400 is 2285 of 2442. The hill mean is (212.2, 223.9, 146.6). Pure white is 0. The sky-blue detector is 0. The clipped blooms over the beds come down under 250. A bloom at screen (953, 426) moved from (255, 145, 146) to (169, 96, 80), and at night from (178, 104, 120) to (119, 101, 108). Another at (595, 584) moved from (255, 127, 136) to (156, 78, 68), and at night from (167, 88, 108) to (106, 84, 90). The worn walks stay open. On this shot the check is 3.31% (2475 of 74800). The previous file is 2442. The mask at x 1240–1400 is 2272 of 2475. The hill mean is (212.2, 223.9, 146.6). Pure white is 0. The sky-blue detector is 0. The lawn tufts that still clipped to 255 come down under 250. A tuft at screen (55, 450) moved from (226, 255, 167) to (133, 122, 85), and at night from (126, 148, 120) to (114, 128, 119). Another at (1353, 515) moved from (255, 255, 180) to (117, 98, 78), and at night from (98, 128, 93) to (90, 112, 85). The worn walks stay open. On this shot the check is 3.26% (2441 of 74800). The previous file is 2475. The mask at x 1240–1400 is 2277 of 2441. The hill mean is (212.2, 223.9, 146.6). Pure white is 0. The sky-blue detector is 0. Empty bed cells grow blades over the flat discs. A blade at screen (900, 415) moved from (177, 196, 114) to (133, 108, 80), and at night from (121, 146, 121) to (104, 111, 109). Another at (972, 399) moved from (150, 151, 92) to (125, 111, 81), and at night from (117, 132, 116) to (108, 122, 106). The worn walks stay open. The pond surface bowls down in the middle and meets the bank. On the night pond shot a point at screen (360, 520) moved from (150, 204, 155) to (79, 122, 110). Another at (520, 440) moved from (152, 204, 157) to (103, 152, 115). On this shot the check is 3.24% (2427 of 74800). The previous file is 2441. The mask at x 1240–1400 is 2261 of 2427. The hill mean is (212.2, 223.9, 146.6). Pure white is 0. The sky-blue detector is 0. The openings in the worn walks grow a flower clump. A clump at screen (975, 451) moved from (125, 117, 77) to (165, 189, 105), and at night from (117, 138, 114) to (117, 115, 107). Another at (717, 472) moved from (183, 240, 127) to (139, 156, 89), and at night from (97, 111, 103) to (66, 93, 71). The worn walks stay open. On this shot the check is 3.29% (2459 of 74800). The previous file is 2427. The mask at x 1240–1400 is 2275 of 2459. The hill mean is (212.2, 223.9, 146.6). Pure white is 0. The sky-blue detector is 0. Meadow grows on the outer half of the stall spur and the pond path. A bloom at screen (778, 382) moved from (187, 151, 106) to (109, 96, 69), and at night from (178, 153, 131) to (90, 100, 99). Another at (788, 378) moved from (188, 152, 106) to (126, 91, 70), and at night from (181, 154, 133) to (102, 95, 94). The worn center at screen (796, 404) stayed (124, 110, 79). The south path lantern glass at screen (722, 552) came down from (255, 232, 131) to (183, 97, 65) by day, and from (255, 199, 119) to (208, 128, 91) at night. Both stay under 250. The room windows stay as they are. A planted reed grows a seed head on each stem. A head at screen (405, 512) moved from (80, 71, 48) to (224, 176, 110) by day, and from (88, 99, 95) to (152, 134, 119) at night. The peach hangs as one warm fruit on a short stem. A point at screen (552, 909) moved from (160, 132, 78) to (239, 147, 89) by day, and from (117, 134, 102) to (152, 111, 103) at night. Both stay under 250. The bramble stays a ball. The eight leaves under each crop are short blades. A leaf at screen (477, 940) moved from (185, 244, 130) to (132, 147, 85) by day, and from (244, 242, 235) to (108, 164, 117) at night. The bramble fruit stays.
 
 ## Three largest gaps
 
